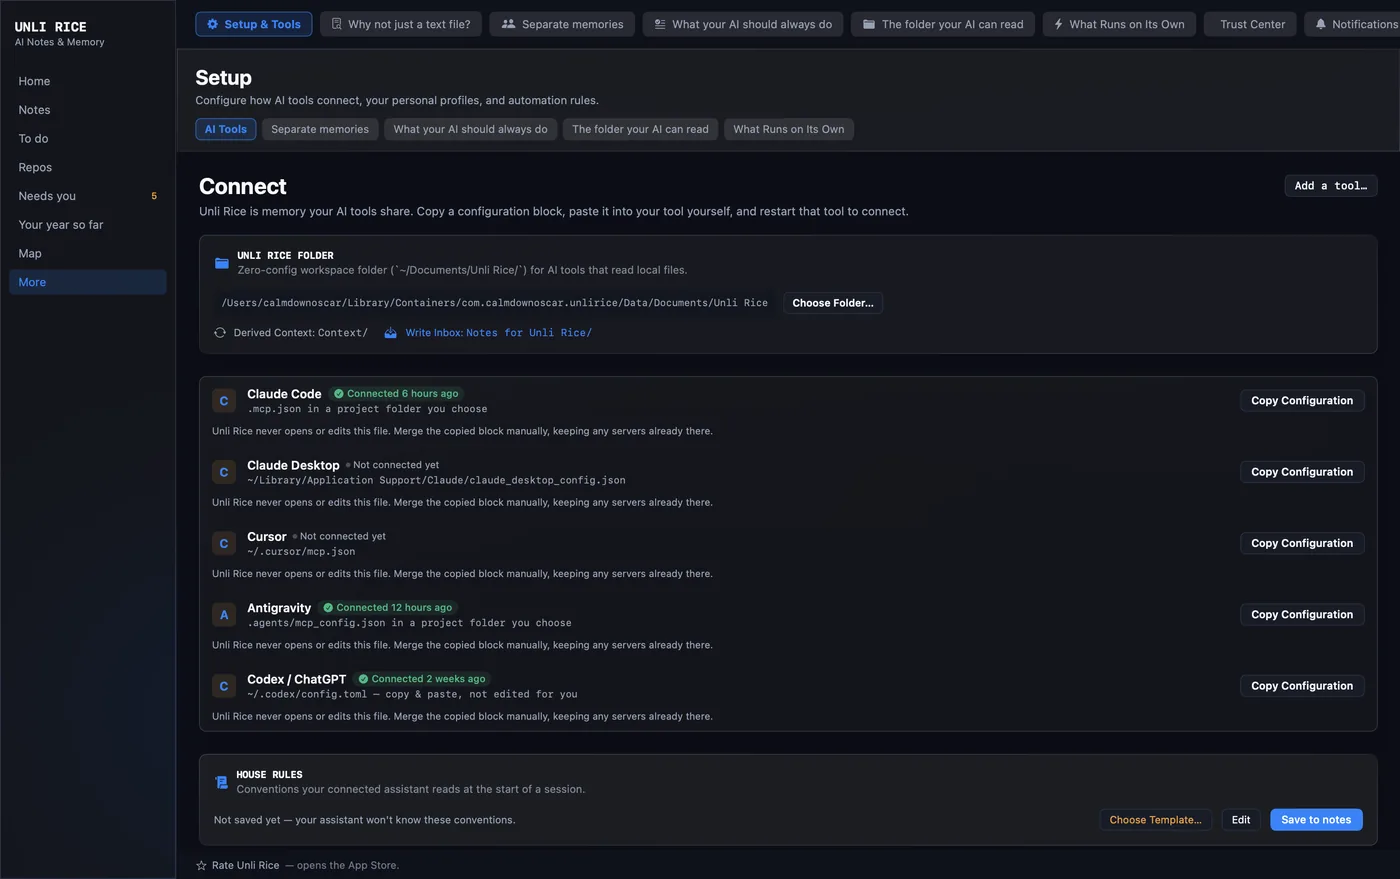
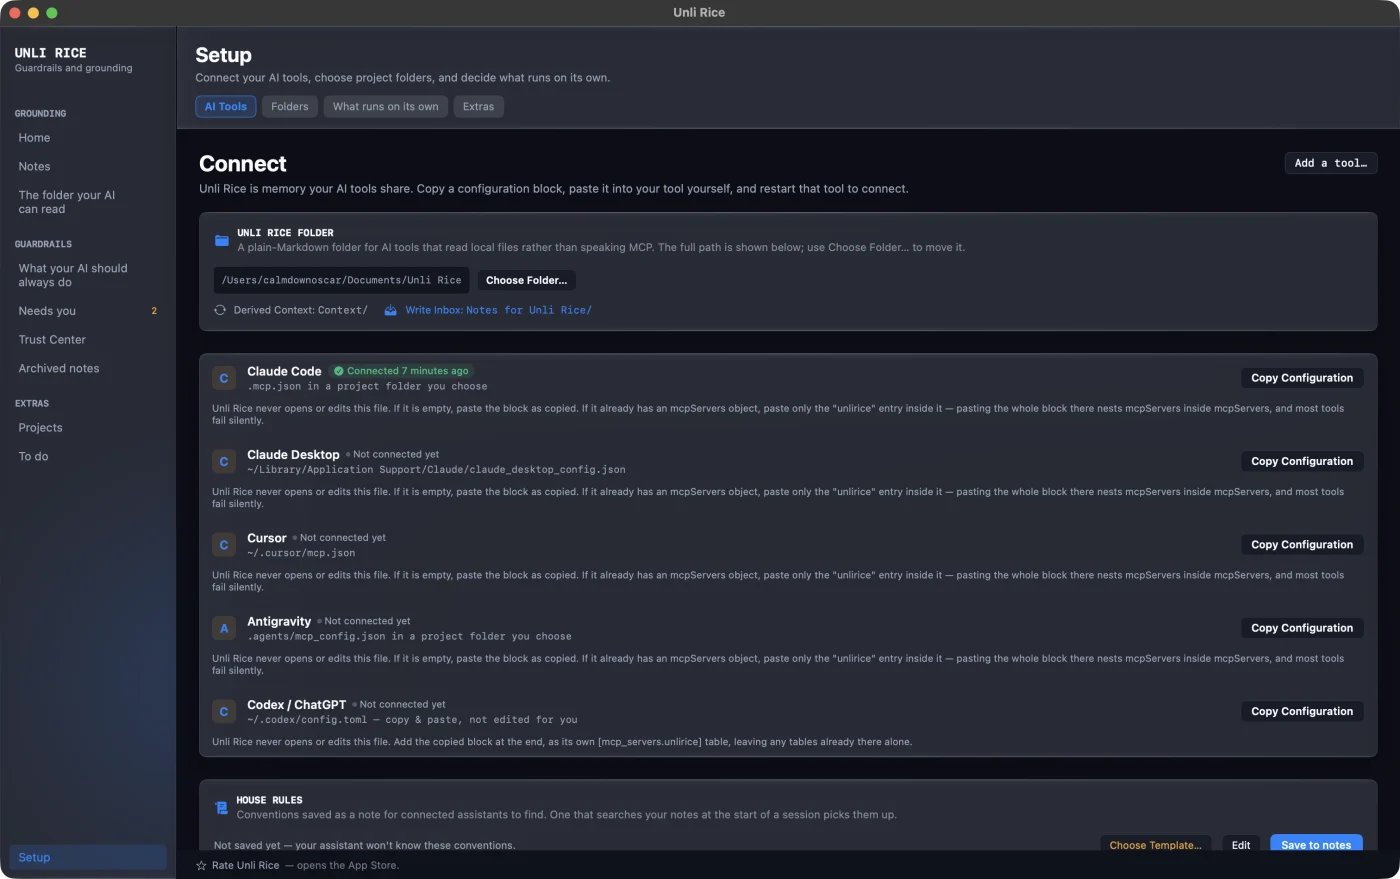
Unli Rice 1.4: new Connect screenshot

diff --git a/unlirice/index.html b/unlirice/index.html
@@ -73,7 +73,7 @@
       </div>
       <div class="grid2">
         <figure><div class="shot"><img src="../apps/assets/unli-rice-shot-house-rules.webp" alt="Unli Rice What your AI should always do — House Rules templates, with the Engineering Guardrails preset open" width="1400" height="879" loading="lazy"></div><figcaption><span>House Rules &mdash; what every assistant reads first</span></figcaption></figure>
-        <figure><div class="shot"><img src="../apps/assets/unli-rice-shot-connect.webp" alt="Unli Rice Setup &amp; Tools — connecting Claude Code, Claude Desktop, Cursor, Antigravity and Codex over MCP" width="1400" height="879" loading="lazy"></div><figcaption><span>Connect &mdash; one config block per tool</span></figcaption></figure>
+        <figure><div class="shot"><img src="../apps/assets/unli-rice-shot-connect.webp" alt="Unli Rice Setup › AI Tools — connecting Claude Code, Claude Desktop, Cursor, Antigravity and Codex over MCP, with Claude Code connected" width="1400" height="879" loading="lazy"></div><figcaption><span>Connect &mdash; one config block per tool</span></figcaption></figure>
         <figure><div class="shot"><img src="../apps/assets/unli-rice-shot-notes.webp" alt="Unli Rice Notes — searchable list of every note, with source tags and timestamps" width="1400" height="879" loading="lazy"></div><figcaption><span>Notes &mdash; searchable, tagged, append-only</span></figcaption></figure>
         <figure><div class="shot"><img src="../apps/assets/unli-rice-shot-todo.webp" alt="Unli Rice To do — to-dos your AI assistants suggested, each with who suggested it and when, plus items derived from your repos" width="1400" height="879" loading="lazy"></div><figcaption><span>To do &mdash; derived, not maintained by hand</span></figcaption></figure>
       </div>
